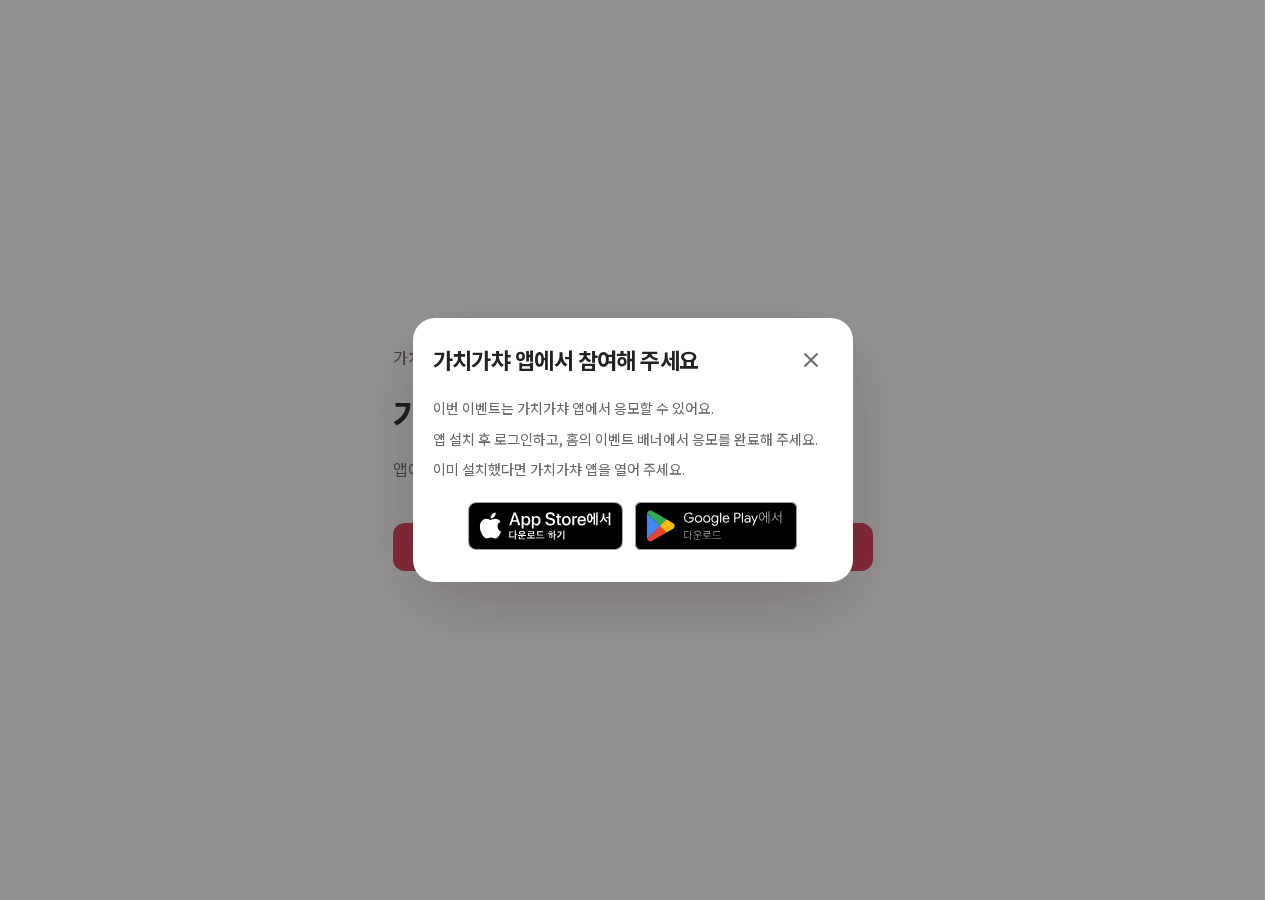
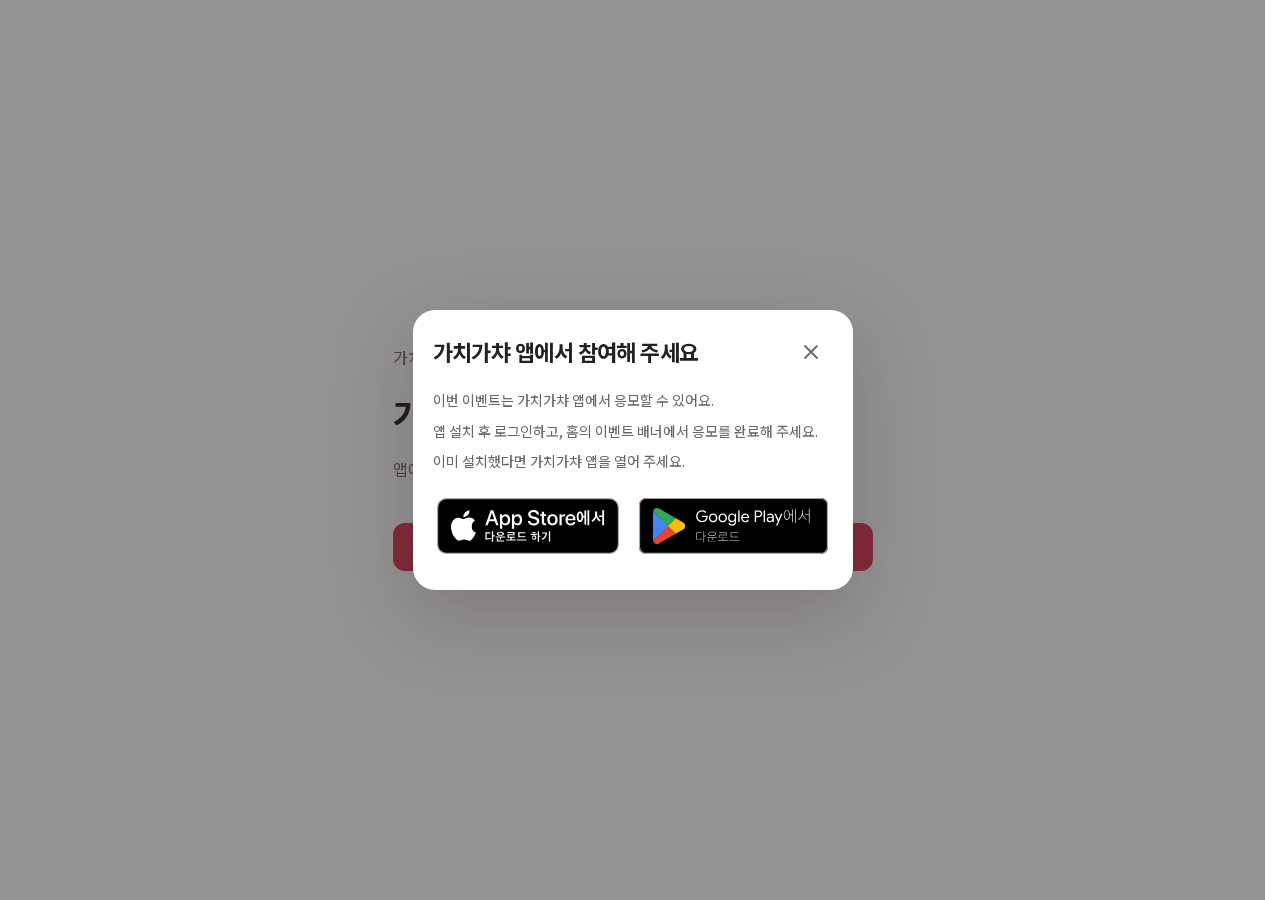
fix(frontend): 설치 팝업의 스토어 배지 크기와 간격을 넓힌다

Changed region(s): [[0.3125, 0.3422, 0.6875, 0.6533]]

diff --git a/frontend/src/routes/launchEvent/LaunchEventInstallDialog.tsx b/frontend/src/routes/launchEvent/LaunchEventInstallDialog.tsx
@@ -117,10 +117,19 @@ const Dialog = styled.dialog`
   background: ${color.surface};
   box-shadow: ${shadow.dialog};
 
-  /* 320px에서도 공식 배지를 줄이거나 변형하지 않고 가로로 배치한다. */
-  @media (max-width: 360px) {
+  @media (max-width: 599px) {
+    width: min(440px, calc(100vw - 24px));
+    padding-inline: ${space.md};
+  }
+
+  @media (max-width: 380px) {
     width: calc(100vw - 16px);
     padding-inline: ${space.sm};
+  }
+
+  /* 320px에서도 최소 높이 40px와 넓어진 배지 간격을 함께 확보한다. */
+  @media (max-width: 340px) {
+    width: calc(100vw - 12px);
   }
 
   &::backdrop {
@@ -188,10 +197,14 @@ const Badges = styled.div`
   flex-wrap: wrap;
   justify-content: center;
   align-items: center;
-  /* 높이 40/48px의 1/4 이상: 좌우는 다이얼로그 패딩, 사이는 12px. */
-  gap: ${space.sm};
-  padding-block: ${space.sm};
+  /* 원본 비율과 높이의 1/4 이상 여백을 지키며 화면 여유만큼 키운다. */
+  gap: ${space.md};
+  padding-block: ${space.md};
   margin-top: ${space.xs};
+
+  @media (min-width: 360px) {
+    gap: ${space.lg};
+  }
 
   a {
     display: inline-flex;
@@ -206,8 +219,20 @@ const Badges = styled.div`
     width: auto;
     height: 40px;
 
-    @media (min-width: 600px) {
+    @media (min-width: 360px) {
+      height: 44px;
+    }
+
+    @media (min-width: 375px) {
+      height: 46px;
+    }
+
+    @media (min-width: 412px) {
       height: 48px;
+    }
+
+    @media (min-width: 600px) {
+      height: 56px;
     }
   }
 `;

diff --git a/frontend/src/assets/store-badges/README.md b/frontend/src/assets/store-badges/README.md
@@ -5,9 +5,9 @@
 - `app-store-ko.svg`: `Download_on_the_App_Store_Badge_KR_RGB_blk_100317.svg`
 - `google-play-ko.svg`: `GetItOnGooglePlay_Badge_Web_color_Korean.svg`
 
-이벤트 설치 안내 팝업에서 사용한다. 로고·색상·문구·비율을 변경하거나 별도 아이콘으로 재작성하지 않는다. App Store 배지를 먼저 배치하고 두 배지의 표시 높이를 모바일 40px, 600px 이상 화면 48px로 맞춘다. 폭은 원본 비율에 따른다. 배지를 같은 폭으로 늘리거나 자르지 않는다.
+이벤트 설치 안내 팝업에서 사용한다. 로고·색상·문구·비율을 변경하거나 별도 아이콘으로 재작성하지 않는다. App Store 배지를 먼저 배치하고 두 배지의 표시 높이를 맞춘다. 작은 화면은 40px, 화면 폭 360px부터 44px, 375px부터 46px, 412px부터 48px, 600px부터 56px로 키운다. 폭은 원본 비율에 따른다. 배지를 같은 폭으로 늘리거나 자르지 않는다.
 
-배지 사이·위아래 여백은 12px, 좌우 여백은 팝업 패딩으로 확보해 표시 높이의 1/4 이상을 유지한다. 320px 화면까지 가로 배치하고 더 좁은 공간에서는 잘리거나 축소되지 않게 줄바꿈한다. 설치 안내는 본문과 같은 서체·색상으로 배지 위에, 배지는 팝업의 마지막 영역에 배치한다.
+배지 사이 여백은 16px(화면 폭 360px부터 20px), 위아래는 16px, 좌우는 팝업 패딩으로 확보해 표시 높이의 1/4 이상을 유지한다. 320px 화면까지 가로 배치하고 더 좁은 공간에서는 잘리거나 축소되지 않게 줄바꿈한다. 설치 안내는 본문과 같은 서체·색상으로 배지 위에, 배지는 팝업의 마지막 영역에 배치한다.
 
 - [Apple 마케팅 지침](https://developer.apple.com/app-store/marketing/guidelines/)
 - [Google Play 공식 배지 지침](https://partnermarketinghub.withgoogle.com/brands/google-play/google-play/lockups-icons-badges/)
